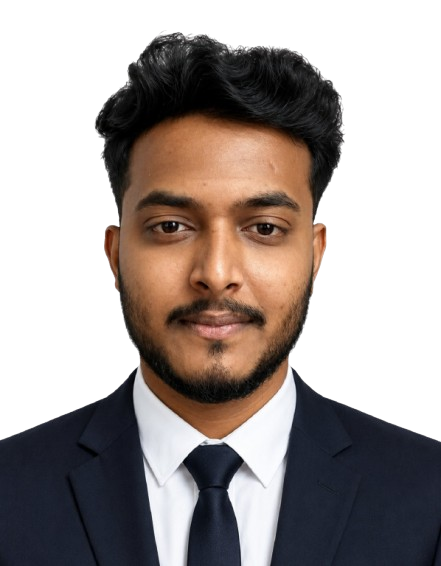
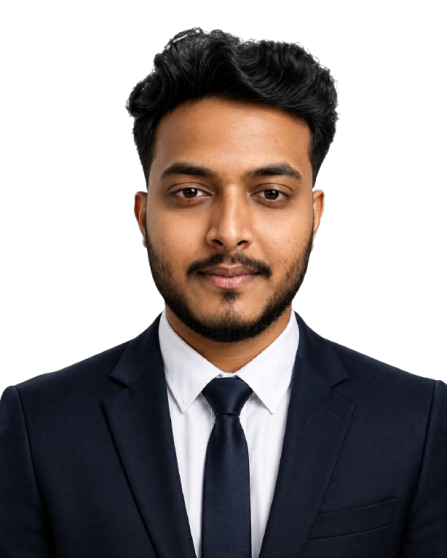
Small Fixes

diff --git a/index.html b/index.html
@@ -4,9 +4,25 @@
     <meta charset="UTF-8" />
     <link rel="icon" type="image/jpeg" href="/infernos.jpeg" />
     <meta name="viewport" content="width=device-width, initial-scale=1.0" />
-    <meta name="description" content="Infernos IT Solutions — we engineer web platforms, mobile apps and e-commerce systems that scale. 10+ projects delivered, 96% client satisfaction." />
-    <meta name="theme-color" content="#0a0605" />
+    <!-- Primary Meta Tags -->
     <title>Infernos — IT Solutions that Scale</title>
+    <meta name="title" content="Infernos — IT Solutions that Scale" />
+    <meta name="description" content="Infernos IT Solutions — we engineer web platforms, mobile apps and e-commerce systems that scale. 10+ projects delivered, 96% client satisfaction." />
+    <meta name="theme-color" content="#e8431c" />
+
+    <!-- Open Graph / Facebook / LinkedIn -->
+    <meta property="og:type" content="website" />
+    <meta property="og:url" content="https://infernos.co.in/" />
+    <meta property="og:title" content="Infernos — IT Solutions that Scale" />
+    <meta property="og:description" content="Infernos IT Solutions — we engineer web platforms, mobile apps and e-commerce systems that scale. 10+ projects delivered, 96% client satisfaction." />
+    <meta property="og:image" content="https://infernos.co.in/infernos.jpeg" />
+
+    <!-- Twitter / X -->
+    <meta property="twitter:card" content="summary_large_image" />
+    <meta property="twitter:url" content="https://infernos.co.in/" />
+    <meta property="twitter:title" content="Infernos — IT Solutions that Scale" />
+    <meta property="twitter:description" content="Infernos IT Solutions — we engineer web platforms, mobile apps and e-commerce systems that scale. 10+ projects delivered, 96% client satisfaction." />
+    <meta property="twitter:image" content="https://infernos.co.in/infernos.jpeg" />
   </head>
   <body>
     <div id="root"></div>

diff --git a/src/components/Footer.tsx b/src/components/Footer.tsx
@@ -45,10 +45,10 @@ const Footer: React.FC = () => {
       setState("error");
       return;
     }
-    
+
     try {
       setState("sending");
-      
+
       const formData = new FormData();
       formData.append("name", name);
       formData.append("phone", phone);
@@ -61,7 +61,7 @@ const Footer: React.FC = () => {
         body: formData,
         mode: "no-cors",
       });
-      
+
       setState("sent");
       setName("");
       setPhone("");
@@ -233,7 +233,7 @@ const Footer: React.FC = () => {
                       </svg>
                     ),
                     name: "WhatsApp",
-                    href: "https://wa.me/9021191174",
+                    href: "https://wa.me/7774942956",
                   },
                   {
                     icon: (

diff --git a/src/components/Team.tsx b/src/components/Team.tsx
@@ -373,7 +373,7 @@ const styles: Record<string, React.CSSProperties> = {
   },
   statLabel: {
     fontFamily: "monospace",
-    width: 80,
+    width: 130,
     fontSize: 13,
     color: "#fff",
     textTransform: "uppercase",

diff --git a/src/components/TrustBar.tsx b/src/components/TrustBar.tsx
@@ -7,6 +7,7 @@ const clients = [
   "Mayur Nursery",
   "MediCore",
   "MGTech Systems",
+  "Yashraj Business Group",
 ];
 
 const TrustBar: React.FC = () => (
